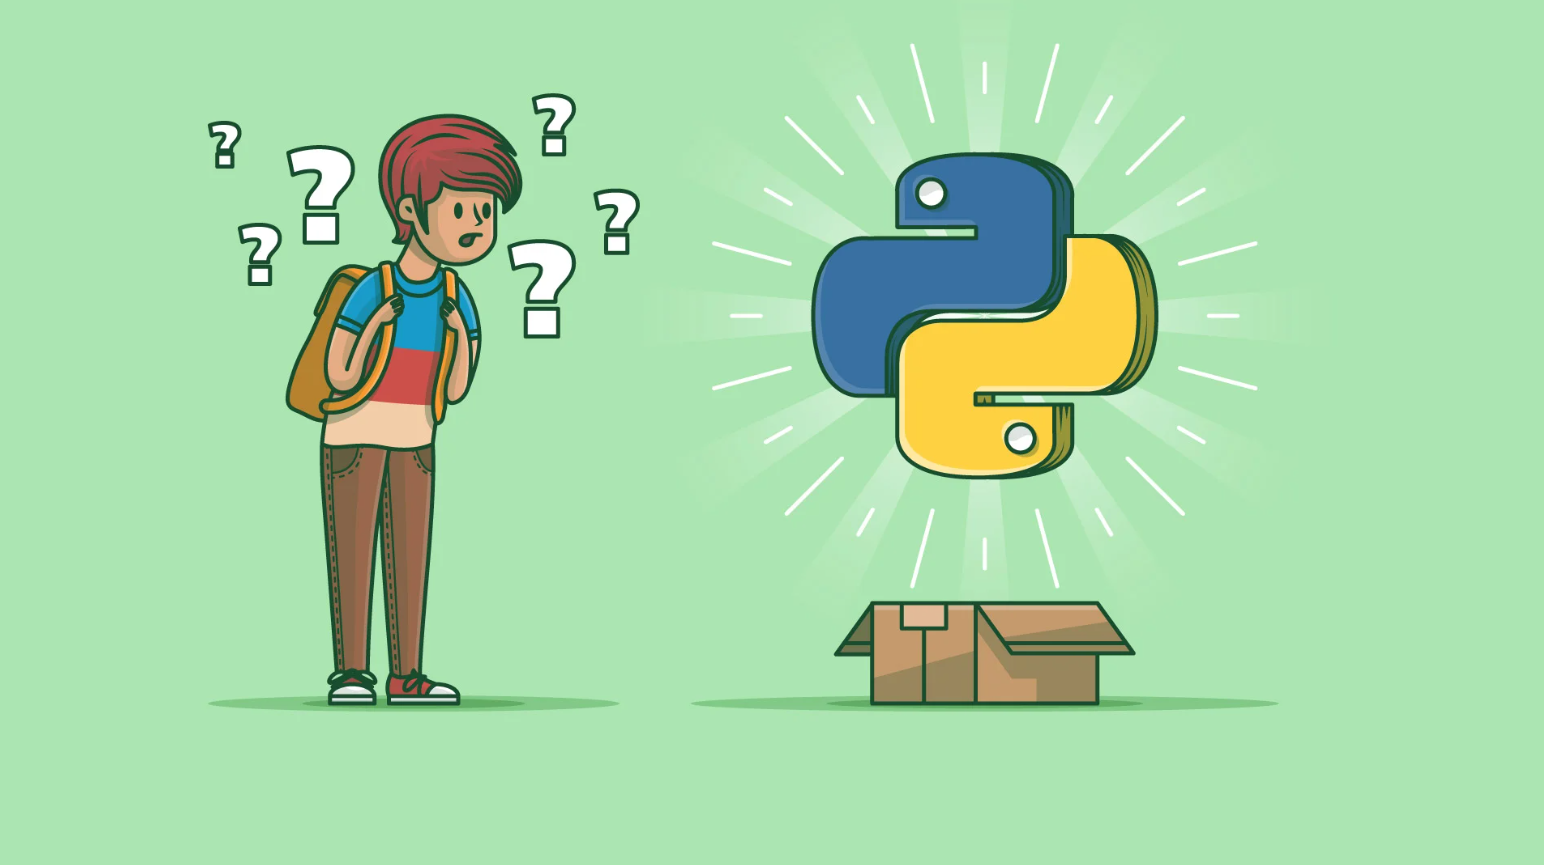
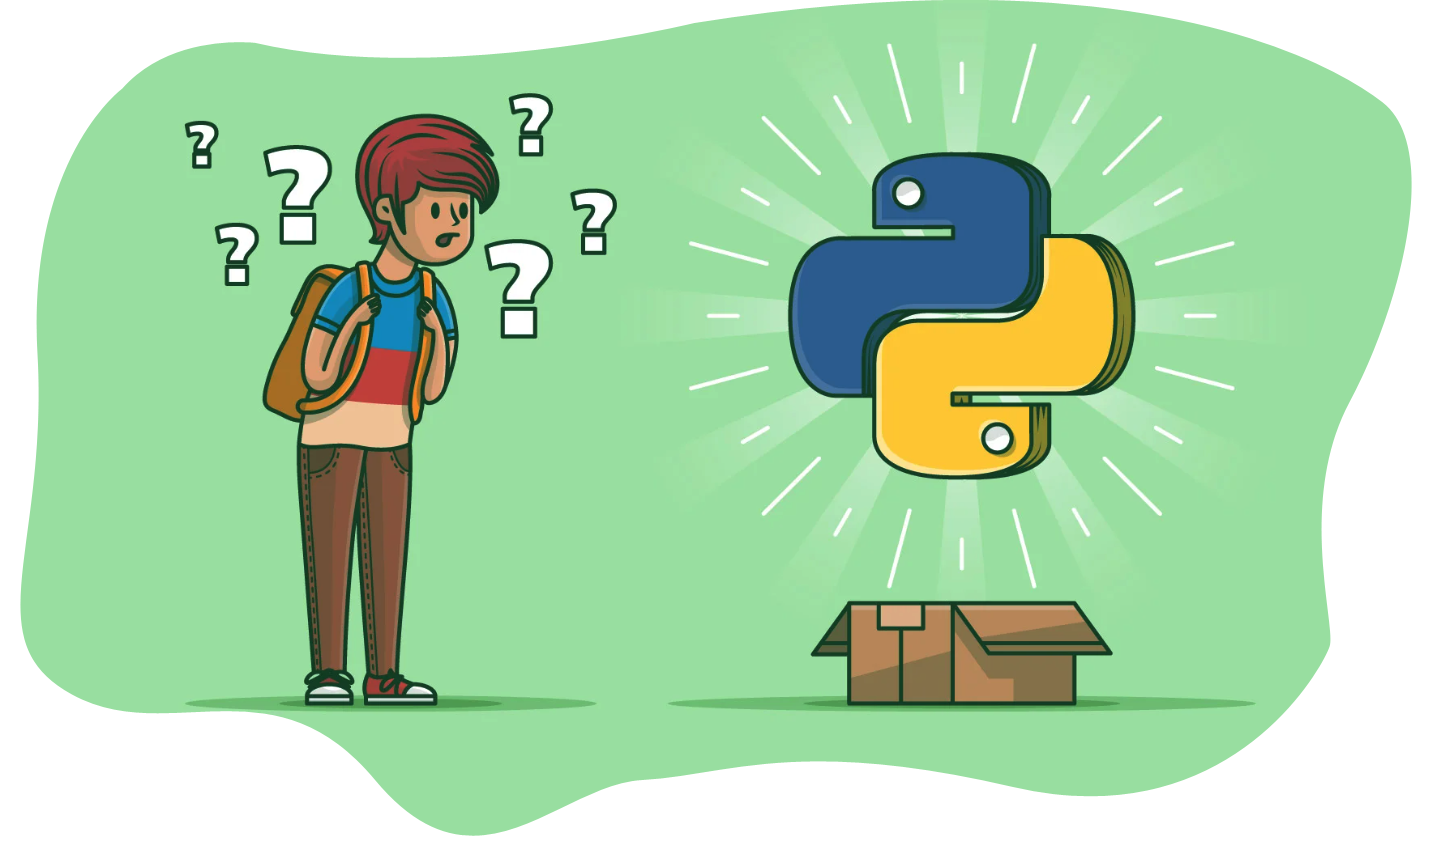
Updates

diff --git a/templates/questions/base.html b/templates/questions/base.html
@@ -68,11 +68,12 @@
       <div class="hero-container container">
         <div class="hero_detail-box">
           <h1>
-            Best place to 
-            Learn Python 
+            Best place to
+            Learn Python
           </h1>
           <p>
-            Pyshikho is a python learning platform where you find many problems to learn. So lets Learn Python on Pyshikho...
+            Pyshikho is a python learning platform where you find many problems to learn. So lets Learn Python on
+            Pyshikho...
           </p>
           <div class="hero_btn-continer">
             <a href="/questions/" class="call_to-btn btn_white-border btn-cyan">
@@ -82,7 +83,7 @@
         </div>
         <div class="hero_img-container">
           <div>
-            <img src="{% static 'images/python2.png'%}" alt="" class="img-fluid">
+            <img src="{% static 'images/python3.png' %}" alt="" class="img-fluid">
           </div>
         </div>
       </div>
@@ -92,21 +93,36 @@
     <div class="container" style="border-radius: 100px;">
       <form id="search-form">
         <div class="input-group">
-          <input type="text" class="form-control" name="q" placeholder="Type and press enter to search ..." aria-label="Search ..." aria-describedby="basic-addon2">
+          <input type="text" class="form-control" name="q" placeholder="Type and press enter to search more problems ..."
+            aria-label="Search ..." aria-describedby="basic-addon2" required>
           <div class="input-group-append">
             <button class=" form-control" type="submit"><i class="fa fa-search"></i></button>
           </div>
         </div>
-    </form>
+      </form>
       <table class="table table-sm text-white table-borderless mt-3" width="100%">
-          <tbody id="search-results">
-          </tbody>
+        <tbody id="search-results">
+        </tbody>
       </table>
+    </div>
+    <div class="container">
+      <h5 class="badge bg-success text-white"> Top 10 searched problems ...</h5>
+      <!-- <table class="table table-bordered text-white">
+        <tbody> -->
+      <ol class="text-white">
+        {% if top_searches %}
+        {% for question in top_searches %}
+        <li><a class="text-white" target="_blank" href="/try/{{ question.id }}">{{ question.title }}</a></td>
+          {% endfor %}
+          {% endif %}
+      </ol>
+      <!-- </tbody>
+      </table> -->
     </div>
   </section>
   <!-- end header section -->
-  
-  
+
+
   <section class="info_section layout_padding-top">
     <div class="info_logo-box">
       <h2>
@@ -206,25 +222,33 @@
   <script type="text/javascript" src="{% static 'js/jquery-3.4.1.min.js'%}"></script>
   <script type="text/javascript" src="{% static 'js/bootstrap.js'%}"></script>
   <script>
-    $(function() {
-        $('#search-form').submit(function(event) {
-            event.preventDefault();
-            var query = $('input[name="q"]').val();
-            $.ajax({
-                url: '/search',
-                data: {q: query},
-                success: function(response) {
-                    var results = response.results;
-                    var html = '';
-                    for (var i = 0; i < results.length; i++) {
-                        html += '<tr><td width="10%"><a class="text-white" target="_blank" href="/try/' + results[i].id + '">' + results[i].title + '</a></td></tr>';
-                    }
-                    $('#search-results').html(html);
-                }
-            });
+    $(function () {
+      $('#search-form').submit(function (event) {
+        event.preventDefault();
+        var query = $('input[name="q"]').val();
+        $.ajax({
+          url: '/search',
+          data: {
+            q: query
+          },
+          success: function (response) {
+            var results = response.results;
+            var html = '';
+            if(results.length == 0){
+              html += '<tr><td width="%" class=" bg-white text-center"><a class="text-danger" target="_blank" href="#"> Oops! No Result found !!! Try search with different keywords like: addition, summation or print </a></td></tr>';
+            }else{
+              html += '<tr><td width="%" class=" "><span class="badge bg-success" target="_blank" href="#"> Search results ... </span></td></tr>';
+              for (var i = 0; i < results.length; i++) {
+                html += '<tr><td width="%"><a class="text-white" target="_blank" href="/try/' + results[i]
+                  .id + '">' + results[i].title + '</a></td></tr>';
+              }
+            }
+            $('#search-results').html(html);
+          }
         });
+      });
     });
-    </script>
+  </script>
 
 </body>
 

diff --git a/templates/questions/about.html b/templates/questions/about.html
@@ -32,7 +32,7 @@
   <link rel="stylesheet" href="{% static 'css/css-circular-prog-bar.css'%}">
 </head>
 
-<body>
+<body class="text-white">
   <div class="top_container">
     <!-- header section strats -->
     <header class="header_section">
@@ -65,7 +65,7 @@
       </nav>
 
     </header>
-    <section class="hero_section ">
+    <!-- <section class="hero_section ">
       <div class="hero-container container">
         <div class="hero_detail-box">
           <h1>
@@ -90,14 +90,9 @@
           </div>
         </div>
       </div>
-    </section>
-  </div>
-  <!-- end header section -->
-
-  <div class="common_style">
-
+    </section> -->
     <!-- about section -->
-    <section class="about_section">
+    <section class="about_section mt-4">
       <div class="container">
         <div class="row">
           <div class="col-md-6">
@@ -130,10 +125,6 @@
         </div>
       </div>
     </section>
-
-
-    <!-- end about section -->
-
 
     <!-- why section -->
     <section class="why_section">
@@ -177,6 +168,18 @@
         </div>
       </div>
     </section>
+  </div>
+  <!-- end header section -->
+  
+  <div class="common_style">
+
+    
+
+
+    <!-- end about section -->
+
+
+    
 
     <!-- end why section -->
   </div>

diff --git a/questions/views.py b/questions/views.py
@@ -10,7 +10,11 @@ import os
 
 def home(request):
     questions = Questions.objects.all()
-    diction = { 'question_list' : questions}
+    top_searches = Questions.objects.all().order_by('search_count')[:10]
+    diction = { 
+        'question_list' : questions,
+        'top_searches' : top_searches
+    }
     return render(request, 'questions/base.html', context=diction)
 
 def about(request):
@@ -65,6 +69,12 @@ def execute(request):
     return "<pre>{}</pre>".format(output)
 
 def search(request):
+    query = request.GET.get('q')
+    results = Questions.objects.filter(title__icontains=query)[:10]
+    data = [{'id': r.id, 'title': r.title, 'description': r.description} for r in results]
+    return JsonResponse({'results': data})
+
+def top_search():
     query = request.GET.get('q')
     results = Questions.objects.filter(title__icontains=query)
     data = [{'id': r.id, 'title': r.title, 'description': r.description} for r in results]

diff --git a/questions/migrations/0005_auto_20230515_1346.py b/questions/migrations/0005_auto_20230515_1346.py
@@ -1,0 +1,23 @@
+# Generated by Django 2.0.3 on 2023-05-15 07:46
+
+from django.db import migrations, models
+
+
+class Migration(migrations.Migration):
+
+    dependencies = [
+        ('questions', '0004_auto_20230408_1050'),
+    ]
+
+    operations = [
+        migrations.AddField(
+            model_name='questions',
+            name='search_count',
+            field=models.IntegerField(null=True),
+        ),
+        migrations.AddField(
+            model_name='questions',
+            name='solution',
+            field=models.TextField(null=True),
+        ),
+    ]

diff --git a/questions/models.py b/questions/models.py
@@ -7,6 +7,7 @@ class Questions(models.Model):
     slug = models.TextField(null=True)
     description = models.TextField()
     solution = models.TextField(null=True)
+    search_count = models.IntegerField(null=True)
     created_at = models.DateTimeField(auto_now_add=True)
     updated_at = models.DateTimeField(auto_now=True)
 
